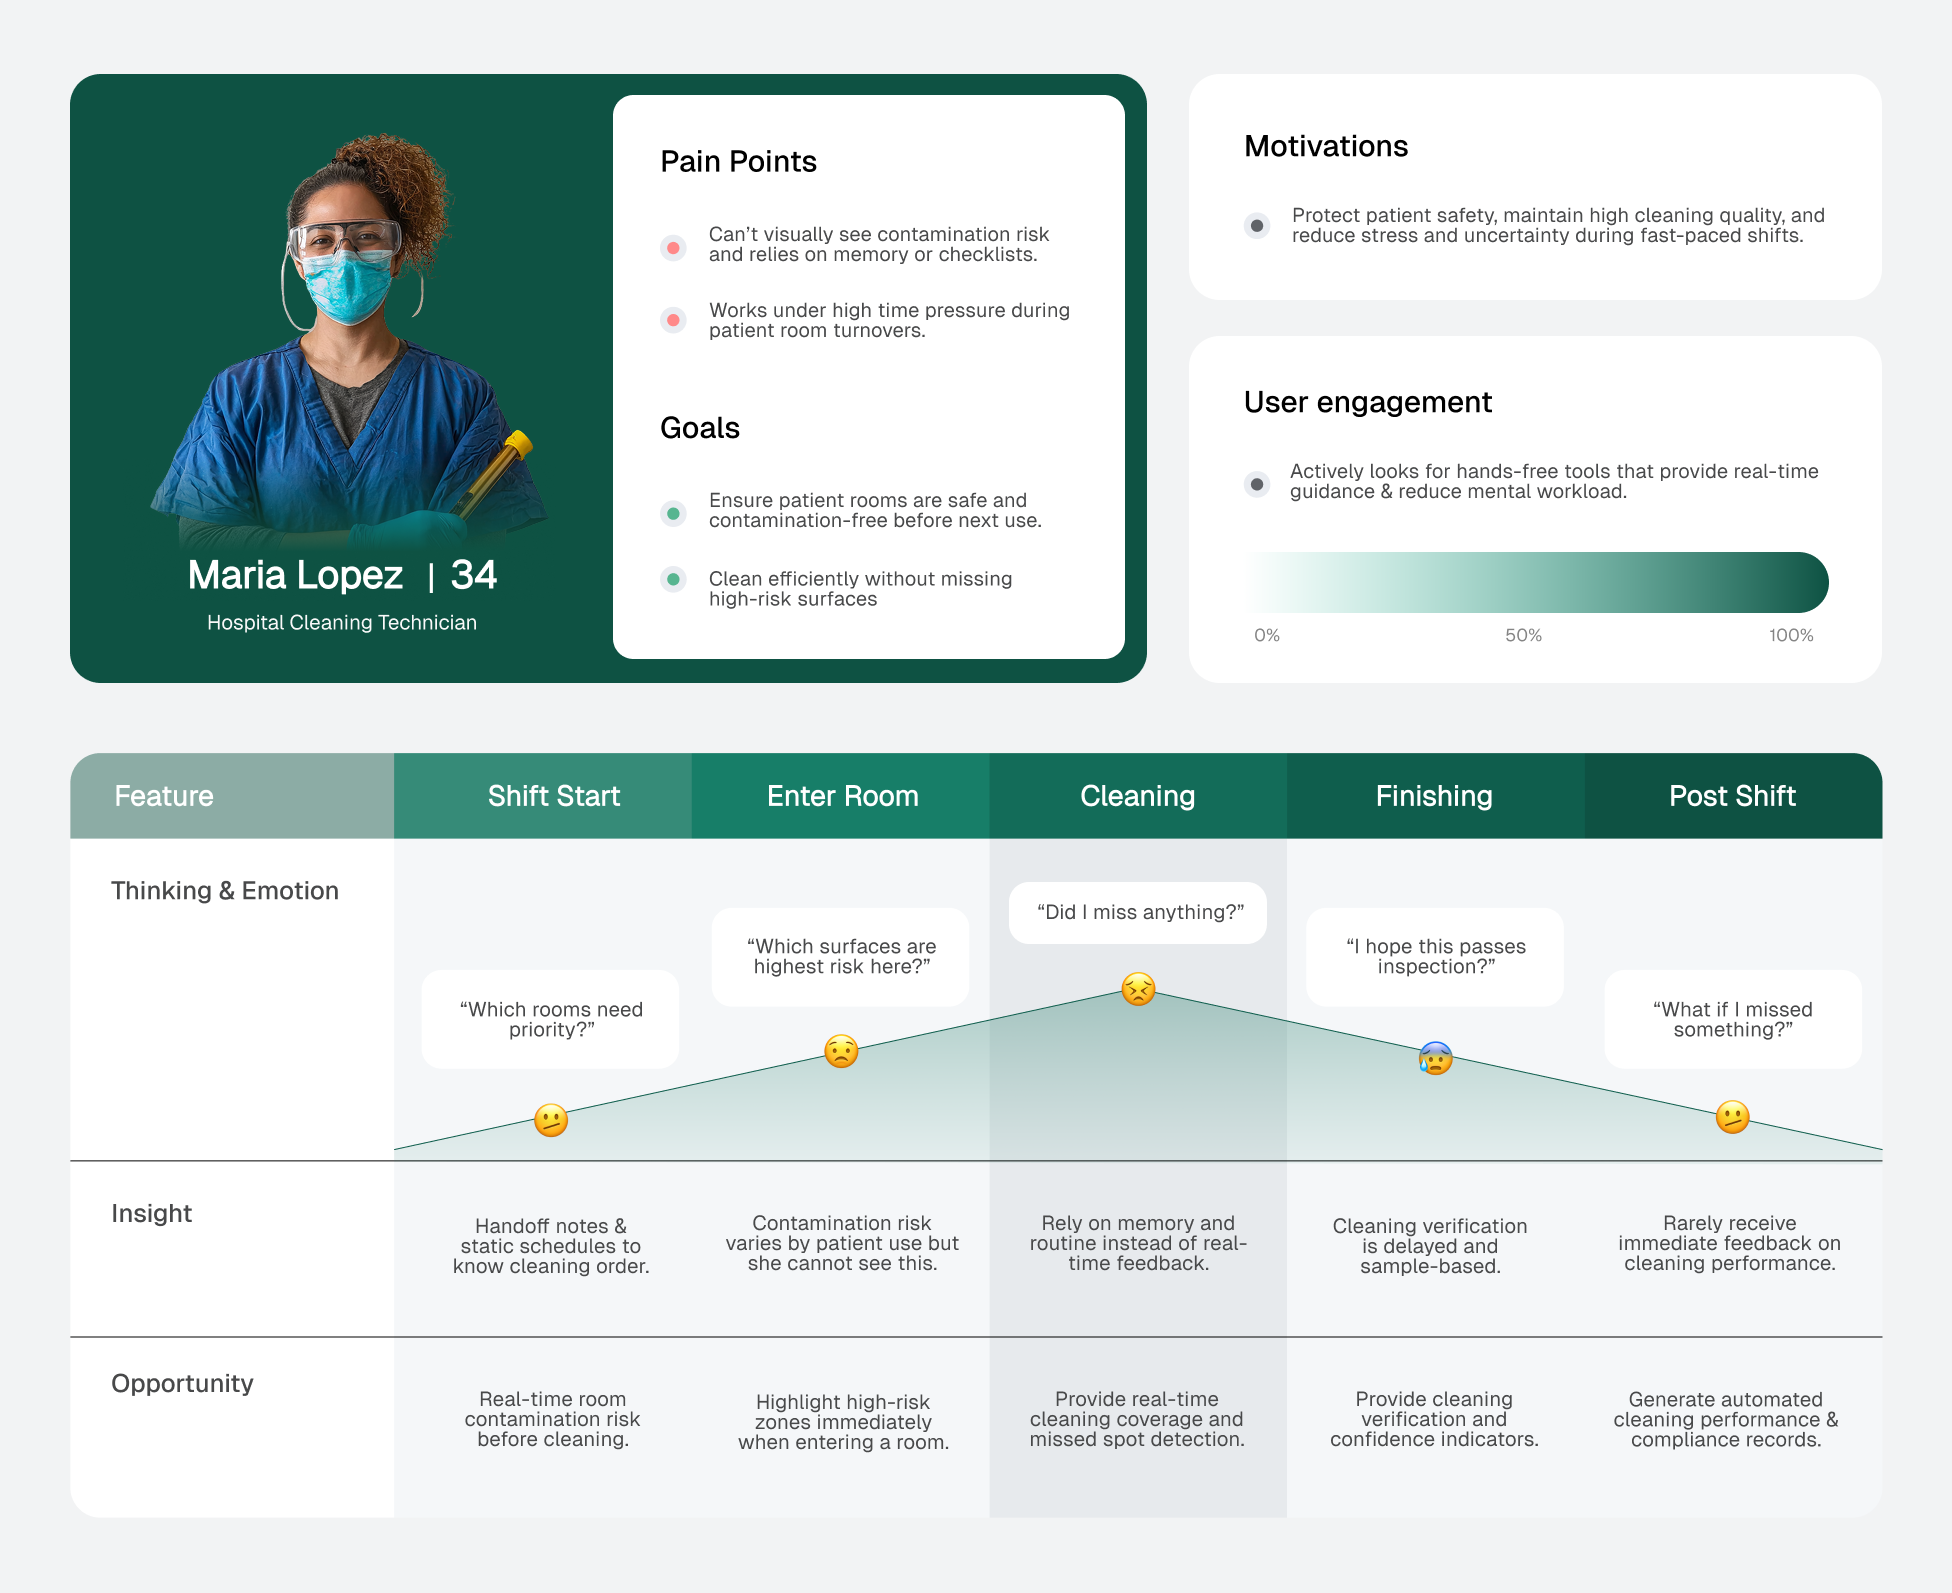
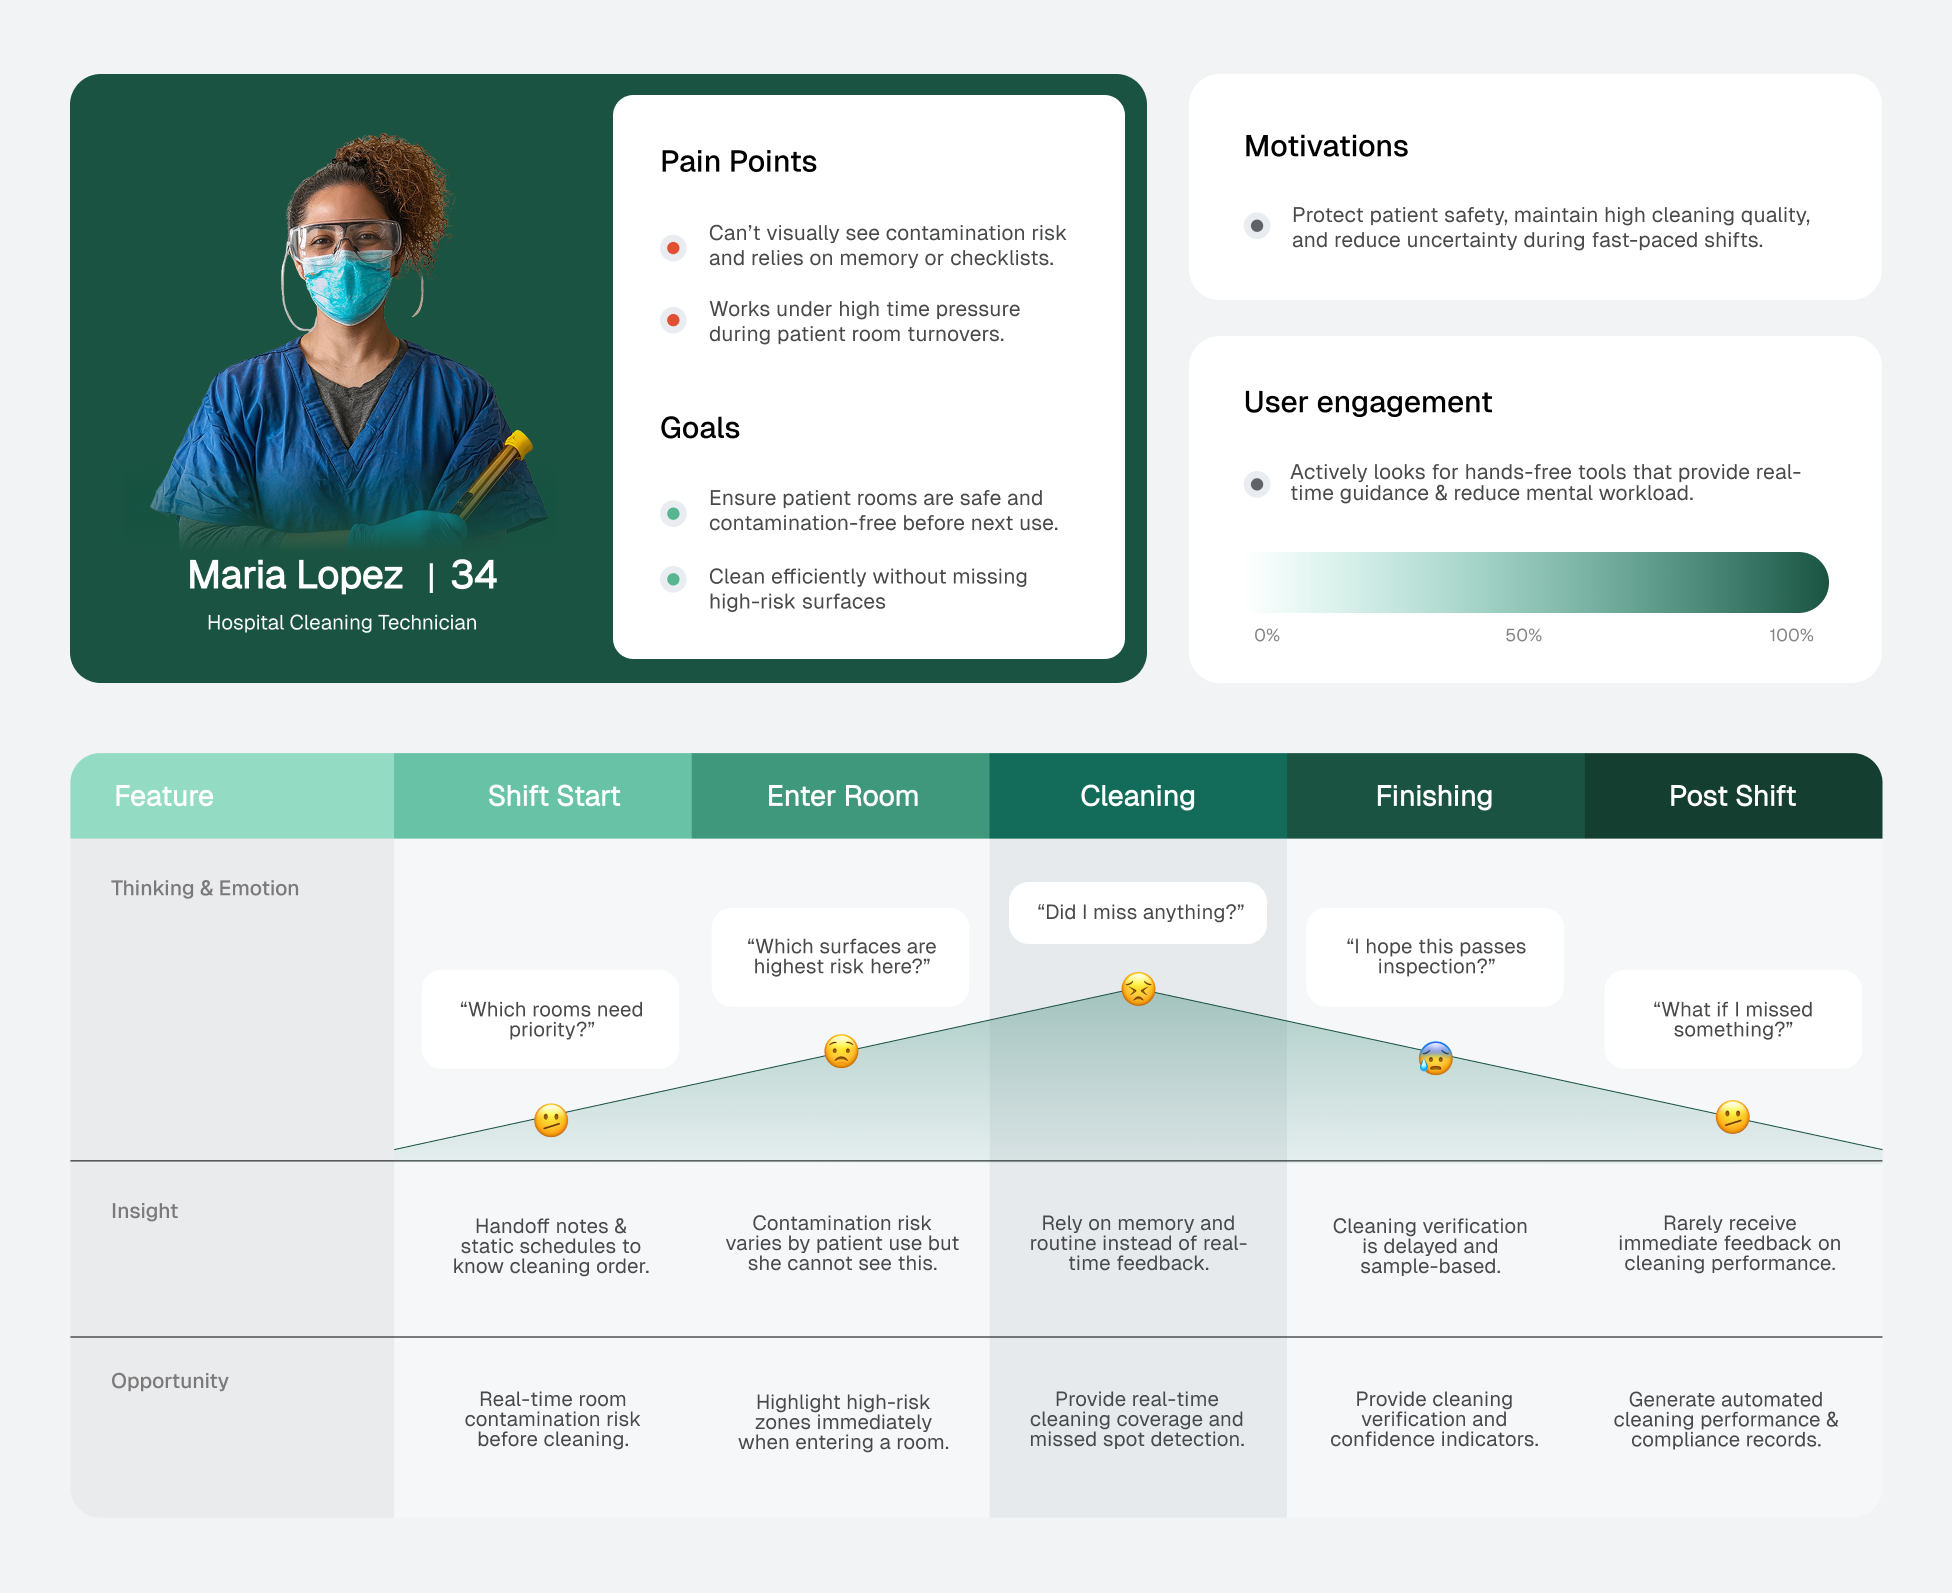
may 2 committt last

diff --git a/sanix.html b/sanix.html
@@ -269,7 +269,7 @@
             display: grid;
             grid-template-columns: 1fr 1fr 1fr;
             gap: 1.5rem;
-            margin-bottom: 1.5rem;
+            margin-bottom: 4rem;
             background: linear-gradient(135deg, #0E5243, #222);
             padding: 2.7rem;
         }
@@ -450,7 +450,7 @@
         }
 
         .stat-tab.active {
-            background: #15715D;
+            background: #1b654e;
         }
 
         .stat-tab-desc {
@@ -752,6 +752,7 @@
                 gap: 1.5vw;
                 padding: 2vw;
                 border-radius: 1.5vw;
+                border-width: 0.3px;
             }
             .feature-left {
                 gap: 0.8vw;
@@ -1074,20 +1075,6 @@
                     <img src="assets/images/Website_Images/Sanix/6.png" alt="Adaptive Cleaning Guidance" class="feature-img">
                 </div>
             </div>
-            <div class="img-full" id="research">
-                <img src="assets/images/Website_Images/Sanix/last.png" alt="Sanix">
-            </div>
-
-            <div class="text-section" id="solutions">
-                <h2 class="section-title">UI Design</h2>
-                <p class="section-body">Powered by AR smart glasses, Sanix turns cleaning into a real-time, guided workflow, minimizing delays and helping workers act with precision. It surfaces what matters most and supports each step to ensure reliable, high-quality sanitation.</p>
-            </div>
-            <div class="img-full img-tight">
-                <img src="assets/images/Website_Images/Sanix/10.png" alt="Coreflow3">
-            </div>
-            <div class="img-full" id="research">
-                <img src="assets/images/Website_Images/Sanix/8.png" alt="Sanix">
-            </div>
 
             <div class="text-section" id="solutions">
                 <h2 class="section-title">Information Architecture</h2>
@@ -1095,6 +1082,17 @@
             </div>
             <div class="img-full">
                 <img src="assets/images/Website_Images/Sanix/5.png" alt="Sitemap">
+            </div>
+
+            <div class="text-section" id="solutions">
+                <h2 class="section-title">UI Design</h2>
+                <p class="section-body">Powered by AR smart glasses, Sanix turns cleaning into a real-time, guided workflow, minimizing delays and helping workers act with precision. It surfaces what matters most and supports each step to ensure reliable, high-quality sanitation.</p>
+            </div>
+            <div class="img-full img-tight">
+                <img src="assets/images/Website_Images/Sanix/10-1.png" alt="UI Design">
+            </div>
+            <div class="img-full" id="research">
+                <img src="assets/images/Website_Images/Sanix/last.png" alt="Sanix">
             </div>
 
             <div class="text-section" id="outcome">
@@ -1155,6 +1153,9 @@
                 <h2 class="section-title">If I had more time...</h2>
                 <p class="section-body">With further development, Sanix could extend beyond smart glasses into an intelligent sanitation infrastructure, combining predictive infection intelligence, hospital-wide risk analytics, and a human–autonomous cleaning ecosystem to enable proactive, system-level infection prevention.</p>
             </div>
+            <!-- <div class="img-full">
+                <img src="assets/images/Website_Images/Sanix/11.png" alt="last">
+            </div> -->
 
             <!-- <div class="img-four-col">
                 <img src="assets/images/Website_Images/Funnel/9-4.png" alt="">
